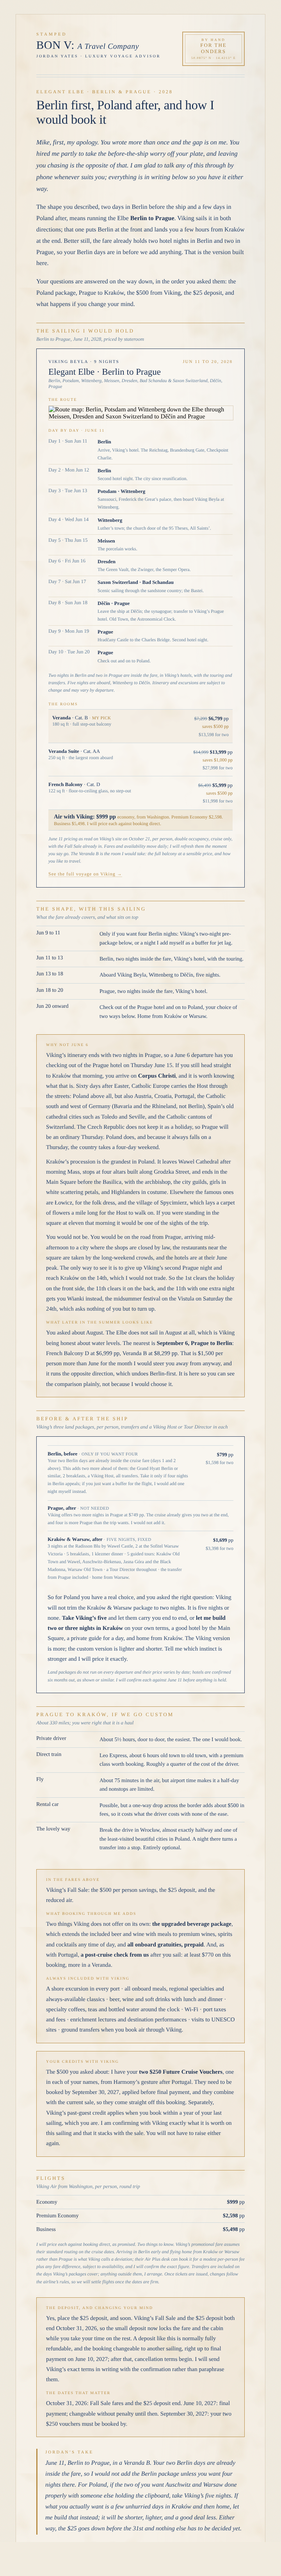
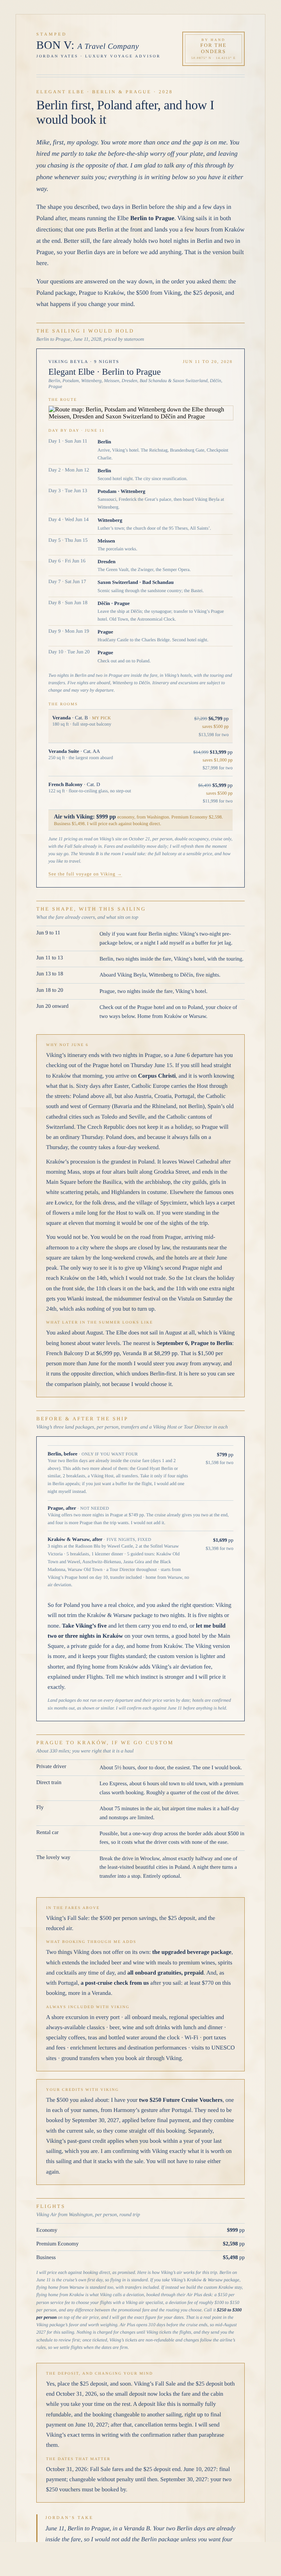
Onder Elbe quote: Viking air fees, Poland package starts from Prague hotel
Flights section now states Air Plus ($150 pp) and the deviation fee range,
and that the deviation applies only to the custom Kraków option; the Viking
Kraków & Warsaw package flies home from Warsaw as standard and starts from
Viking's Prague hotel on day 10.

Claude-Session: https://claude.ai/code/session_01WfjB5uQYEpnBZrtTfVBWKm

Changed region(s): [[0.1222, 0.6242, 0.8556, 0.9988]]

diff --git a/emails/onder-elbe-2028-berlin-prague.html b/emails/onder-elbe-2028-berlin-prague.html
@@ -99,8 +99,8 @@
 <tr><td class="pad" style="padding:16px 52px 0 52px">
   <table role="presentation" width="100%" cellpadding="0" cellspacing="0" style="border:1px solid #1b3154;background-color:rgba(255,255,255,0.35)">
   <tr><td class="cardpad" style="padding:22px 28px">
-    <table role="presentation" width="100%" cellpadding="0" cellspacing="0" style="border-top:1px solid #c9d6dc"><tr><td style="padding:13px 0 12px 0;border-bottom:1px solid #c9d6dc;font-family:Georgia,'Times New Roman',Times,serif;font-size:13px;color:#223e67;vertical-align:top"><strong style="color:#1b3154">Berlin, before</strong> <span style="color:#607d99;font-size:11px;letter-spacing:0.5px;text-transform:uppercase">· only if you want four</span><br><span style="color:#607d99;font-size:12px;line-height:1.65">Your two Berlin days are already inside the cruise fare (days 1 and 2 above). This adds two more ahead of them: the Grand Hyatt Berlin or similar, 2 breakfasts, a Viking Host, all transfers. Take it only if four nights in Berlin appeals; if you just want a buffer for the flight, I would add one night myself instead.</span></td><td align="right" style="padding:13px 0 12px 12px;border-bottom:1px solid #c9d6dc;font-family:Georgia,'Times New Roman',Times,serif;font-size:13px;color:#223e67;vertical-align:top;line-height:1.55;width:100px;white-space:nowrap"><strong style="color:#1b3154">$799</strong> pp<br><span style="color:#607d99;font-size:12px">$1,598 for two</span></td></tr><tr><td colspan="2" style="padding:11px 0 11px 0;border-bottom:1px solid #c9d6dc;font-family:Georgia,'Times New Roman',Times,serif;font-size:13px;color:#223e67;vertical-align:top"><strong style="color:#1b3154">Prague, after</strong> <span style="color:#607d99;font-size:11px;letter-spacing:0.5px;text-transform:uppercase">· not needed</span><br><span style="color:#607d99;font-size:12px;line-height:1.65">Viking offers two more nights in Prague at $749 pp. The cruise already gives you two at the end, and four is more Prague than the trip wants. I would not add it.</span></td></tr><tr><td style="padding:13px 0 12px 0;font-family:Georgia,'Times New Roman',Times,serif;font-size:13px;color:#223e67;vertical-align:top"><strong style="color:#1b3154">Kraków &amp; Warsaw, after</strong> <span style="color:#607d99;font-size:11px;letter-spacing:0.5px;text-transform:uppercase">· five nights, fixed</span><br><span style="color:#607d99;font-size:12px;line-height:1.65">3 nights at the Radisson Blu by Wawel Castle, 2 at the Sofitel Warsaw Victoria · 5 breakfasts, 1 klezmer dinner · 5 guided tours: Kraków Old Town and Wawel, Auschwitz-Birkenau, Jasna Góra and the Black Madonna, Warsaw Old Town · a Tour Director throughout · the transfer from Prague included · home from Warsaw.</span></td><td align="right" style="padding:13px 0 12px 12px;font-family:Georgia,'Times New Roman',Times,serif;font-size:13px;color:#223e67;vertical-align:top;line-height:1.55;width:100px;white-space:nowrap"><strong style="color:#1b3154">$1,699</strong> pp<br><span style="color:#607d99;font-size:12px">$3,398 for two</span></td></tr></table>
-    <p style="margin:16px 0 0 0;font-family:Georgia,'Times New Roman',Times,serif;font-size:15px;line-height:1.75;color:#223e67">So for Poland you have a real choice, and you asked the right question: Viking will not trim the Kraków &amp; Warsaw package to two nights. It is five nights or none. <strong style="color:#1b3154">Take Viking’s five</strong> and let them carry you end to end, or <strong style="color:#1b3154">let me build two or three nights in Kraków</strong> on your own terms, a good hotel by the Main Square, a private guide for a day, and home from Kraków. The Viking version is more; the custom version is lighter and shorter. Tell me which instinct is stronger and I will price it exactly.</p>
+    <table role="presentation" width="100%" cellpadding="0" cellspacing="0" style="border-top:1px solid #c9d6dc"><tr><td style="padding:13px 0 12px 0;border-bottom:1px solid #c9d6dc;font-family:Georgia,'Times New Roman',Times,serif;font-size:13px;color:#223e67;vertical-align:top"><strong style="color:#1b3154">Berlin, before</strong> <span style="color:#607d99;font-size:11px;letter-spacing:0.5px;text-transform:uppercase">· only if you want four</span><br><span style="color:#607d99;font-size:12px;line-height:1.65">Your two Berlin days are already inside the cruise fare (days 1 and 2 above). This adds two more ahead of them: the Grand Hyatt Berlin or similar, 2 breakfasts, a Viking Host, all transfers. Take it only if four nights in Berlin appeals; if you just want a buffer for the flight, I would add one night myself instead.</span></td><td align="right" style="padding:13px 0 12px 12px;border-bottom:1px solid #c9d6dc;font-family:Georgia,'Times New Roman',Times,serif;font-size:13px;color:#223e67;vertical-align:top;line-height:1.55;width:100px;white-space:nowrap"><strong style="color:#1b3154">$799</strong> pp<br><span style="color:#607d99;font-size:12px">$1,598 for two</span></td></tr><tr><td colspan="2" style="padding:11px 0 11px 0;border-bottom:1px solid #c9d6dc;font-family:Georgia,'Times New Roman',Times,serif;font-size:13px;color:#223e67;vertical-align:top"><strong style="color:#1b3154">Prague, after</strong> <span style="color:#607d99;font-size:11px;letter-spacing:0.5px;text-transform:uppercase">· not needed</span><br><span style="color:#607d99;font-size:12px;line-height:1.65">Viking offers two more nights in Prague at $749 pp. The cruise already gives you two at the end, and four is more Prague than the trip wants. I would not add it.</span></td></tr><tr><td style="padding:13px 0 12px 0;font-family:Georgia,'Times New Roman',Times,serif;font-size:13px;color:#223e67;vertical-align:top"><strong style="color:#1b3154">Kraków &amp; Warsaw, after</strong> <span style="color:#607d99;font-size:11px;letter-spacing:0.5px;text-transform:uppercase">· five nights, fixed</span><br><span style="color:#607d99;font-size:12px;line-height:1.65">3 nights at the Radisson Blu by Wawel Castle, 2 at the Sofitel Warsaw Victoria · 5 breakfasts, 1 klezmer dinner · 5 guided tours: Kraków Old Town and Wawel, Auschwitz-Birkenau, Jasna Góra and the Black Madonna, Warsaw Old Town · a Tour Director throughout · starts from Viking’s Prague hotel on day 10, transfer included · home from Warsaw, no air deviation.</span></td><td align="right" style="padding:13px 0 12px 12px;font-family:Georgia,'Times New Roman',Times,serif;font-size:13px;color:#223e67;vertical-align:top;line-height:1.55;width:100px;white-space:nowrap"><strong style="color:#1b3154">$1,699</strong> pp<br><span style="color:#607d99;font-size:12px">$3,398 for two</span></td></tr></table>
+    <p style="margin:16px 0 0 0;font-family:Georgia,'Times New Roman',Times,serif;font-size:15px;line-height:1.75;color:#223e67">So for Poland you have a real choice, and you asked the right question: Viking will not trim the Kraków &amp; Warsaw package to two nights. It is five nights or none. <strong style="color:#1b3154">Take Viking’s five</strong> and let them carry you end to end, or <strong style="color:#1b3154">let me build two or three nights in Kraków</strong> on your own terms, a good hotel by the Main Square, a private guide for a day, and home from Kraków. The Viking version is more, and it keeps your flights standard; the custom version is lighter and shorter, and flying home from Kraków adds Viking’s air deviation fee, explained under Flights. Tell me which instinct is stronger and I will price it exactly.</p>
     <p style="margin:12px 0 0 0;font-family:Georgia,'Times New Roman',Times,serif;font-size:12px;line-height:1.65;font-style:italic;color:#607d99">Land packages do not run on every departure and their price varies by date; hotels are confirmed six months out, as shown or similar. I will confirm each against June 11 before anything is held.</p>
   </td></tr>
   </table>
@@ -116,7 +116,7 @@
 <tr><td class="pad" style="padding:34px 52px 0 52px"><div style="border-top:1px solid #b78b42;padding-top:12px"><p style="margin:0;font-family:Georgia,'Times New Roman',Times,serif;font-size:13px;letter-spacing:3px;text-transform:uppercase;color:#b78b42">Flights</p><p style="margin:5px 0 0 0;font-family:Georgia,'Times New Roman',Times,serif;font-size:13px;font-style:italic;color:#607d99">Viking Air from Washington, per person, round trip</p></div></td></tr>
 <tr><td class="pad" style="padding:14px 52px 0 52px">
   <table role="presentation" width="100%" cellpadding="0" cellspacing="0" style="border-top:1px solid #c9d6dc"><tr><td style="padding:9px 0;border-bottom:1px solid #c9d6dc;font-family:Georgia,'Times New Roman',Times,serif;font-size:14px;color:#1b3154">Economy</td><td align="right" style="padding:9px 0;border-bottom:1px solid #c9d6dc;font-family:Georgia,'Times New Roman',Times,serif;font-size:14px;color:#223e67"><strong style="color:#1b3154">$999</strong> pp</td></tr><tr><td style="padding:9px 0;border-bottom:1px solid #c9d6dc;font-family:Georgia,'Times New Roman',Times,serif;font-size:14px;color:#1b3154">Premium Economy</td><td align="right" style="padding:9px 0;border-bottom:1px solid #c9d6dc;font-family:Georgia,'Times New Roman',Times,serif;font-size:14px;color:#223e67"><strong style="color:#1b3154">$2,598</strong> pp</td></tr><tr><td style="padding:9px 0;font-family:Georgia,'Times New Roman',Times,serif;font-size:14px;color:#1b3154">Business</td><td align="right" style="padding:9px 0;font-family:Georgia,'Times New Roman',Times,serif;font-size:14px;color:#223e67"><strong style="color:#1b3154">$5,498</strong> pp</td></tr></table>
-  <p style="margin:12px 0 0 0;font-family:Georgia,'Times New Roman',Times,serif;font-size:12px;line-height:1.6;font-style:italic;color:#607d99">I will price each against booking direct, as promised. Two things to know. Viking’s promotional fare assumes their standard routing on the cruise dates. Arriving in Berlin early and flying home from Kraków or Warsaw rather than Prague is what Viking calls a deviation; their Air Plus desk can book it for a modest per-person fee plus any fare difference, subject to availability, and I will confirm the exact figure. Transfers are included on the days Viking’s packages cover; anything outside them, I arrange. Once tickets are issued, changes follow the airline’s rules, so we will settle flights once the dates are firm.</p>
+  <p style="margin:12px 0 0 0;font-family:Georgia,'Times New Roman',Times,serif;font-size:12px;line-height:1.6;font-style:italic;color:#607d99">I will price each against booking direct, as promised. Here is how Viking’s air works for this trip. Berlin on June 11 is the cruise’s own first day, so flying in is standard. If you take Viking’s Kraków &amp; Warsaw package, flying home from Warsaw is standard too, with transfers included. If instead we build the custom Kraków stay, flying home from Kraków is what Viking calls a deviation, booked through their Air Plus desk: a $150 per person service fee to choose your flights with a Viking air specialist, a deviation fee of roughly $100 to $150 per person, and any difference between the promotional fare and the routing you choose. Call it <strong style="color:#1b3154">$250 to $300 per person</strong> on top of the air price, and I will get the exact figure for your dates. That is a real point in the Viking package’s favor and worth weighing. Air Plus opens 310 days before the cruise ends, so mid-August 2027 for this sailing. Nothing is charged for changes until Viking tickets the flights, and they send you the schedule to review first; once ticketed, Viking’s tickets are non-refundable and changes follow the airline’s rules, so we settle flights when the dates are firm.</p>
 </td></tr>
 
 <tr><td class="pad" style="padding:30px 52px 0 52px"><table role="presentation" width="100%" cellpadding="0" cellspacing="0" style="border:1px solid #b78b42;background-color:rgba(183,139,66,0.06)"><tr><td style="padding:20px 24px"><p style="margin:0;font-family:Georgia,'Times New Roman',Times,serif;font-size:10px;letter-spacing:2px;text-transform:uppercase;color:#b78b42">The deposit, and changing your mind</p><p style="margin:8px 0 0 0;font-family:Georgia,'Times New Roman',Times,serif;font-size:15px;line-height:1.75;color:#223e67">Yes, place the $25 deposit, and soon. Viking’s Fall Sale and the $25 deposit both end October 31, 2026, so the small deposit now locks the fare and the cabin while you take your time on the rest. A deposit like this is normally fully refundable, and the booking changeable to another sailing, right up to final payment on June 10, 2027; after that, cancellation terms begin. I will send Viking’s exact terms in writing with the confirmation rather than paraphrase them.</p><p style="margin:16px 0 0 0;font-family:Georgia,'Times New Roman',Times,serif;font-size:10px;letter-spacing:2px;text-transform:uppercase;color:#b78b42">The dates that matter</p><p style="margin:8px 0 0 0;font-family:Georgia,'Times New Roman',Times,serif;font-size:15px;line-height:1.75;color:#223e67">October 31, 2026: Fall Sale fares and the $25 deposit end. June 10, 2027: final payment; changeable without penalty until then. September 30, 2027: your two $250 vouchers must be booked by.</p></td></tr></table></td></tr>

diff --git a/emails/README.md b/emails/README.md
@@ -225,8 +225,8 @@ Caveat carried in the letter's fine print: Celebrity's figures include taxes and
 **Open items before send**
 - Struck retail fares ($7,299 / $14,999 / $6,499) are derived from the Fall Sale savings in the Oct 7 quote; verify against Viking's "was" prices.
 - Confirm Explorer Society credit amount and that it stacks with the Fall Sale.
-- Confirm the Air Plus deviation fee (early Berlin arrival, home from Kraków/Warsaw).
-- Confirm whether Kraków & Warsaw can start from Viking's Prague hotel on day 10 (the letter now assumes it does).
+- Air: Viking Air Plus $150 pp (Viking site, per search) + deviation ~$100–150 pp (user reports), only on the custom-Kraków option; Viking package flies home from Warsaw with no deviation. Figures caveated in the letter; confirm exact on booking.
+- Kraków & Warsaw starts from Viking's Prague hotel on day 10 (confirmed by Jordan 2026-10-21).
 - Day-by-day (from Viking's 2028 Berlin–Prague page): 2 hotel nights Berlin, board Wittenberg day 3, 5 nights aboard, leave Děčín day 8, 2 hotel nights Prague. The $799 Berlin pre-package therefore makes four Berlin nights; letter says so. Route map is hot-linked from assets.viking.com (Elegant-Elbe-2025 2x1), not hosted locally.
 
 **Results** — _pending send_
